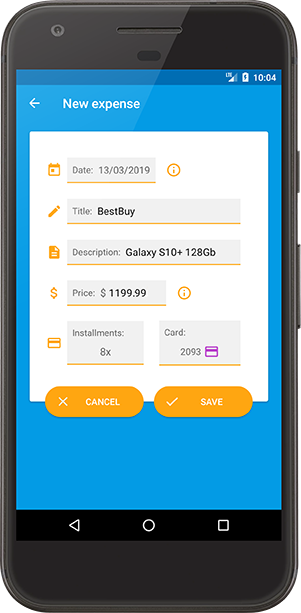
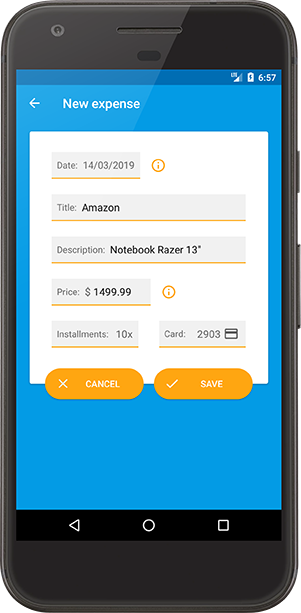
NewExpense Improvements

diff --git a/app/src/main/java/com/dev/marcellocamara/pgm/Adapter/ExpensesAdapter.java b/app/src/main/java/com/dev/marcellocamara/pgm/Adapter/ExpensesAdapter.java
@@ -1,18 +1,25 @@
 package com.dev.marcellocamara.pgm.Adapter;
 
+import android.content.Context;
 import android.support.annotation.NonNull;
 import android.support.v7.widget.RecyclerView;
 import android.view.LayoutInflater;
 import android.view.View;
 import android.view.ViewGroup;
+import android.widget.ImageView;
 import android.widget.TextView;
 
 import com.dev.marcellocamara.pgm.Contract.IAdapter;
+import com.dev.marcellocamara.pgm.Helper.CardHelper;
 import com.dev.marcellocamara.pgm.Helper.NumberHelper;
+import com.dev.marcellocamara.pgm.Helper.SpecificCard;
+import com.dev.marcellocamara.pgm.Model.CardModel;
 import com.dev.marcellocamara.pgm.Model.ExpenseModel;
 import com.dev.marcellocamara.pgm.R;
 
+import java.util.ArrayList;
 import java.util.List;
+import java.util.Objects;
 
 import butterknife.BindView;
 import butterknife.ButterKnife;
@@ -24,11 +31,15 @@ import butterknife.ButterKnife;
 
 public class ExpensesAdapter extends RecyclerView.Adapter<ExpensesAdapter.MyViewHolder> {
 
-    private List<ExpenseModel> list;
+    private List<ExpenseModel> expensesList;
+    private ArrayList<CardModel> cards;
     private IAdapter onRecyclerViewClick;
+    private Context context;
 
-    public ExpensesAdapter(List<ExpenseModel> list, IAdapter onRecyclerViewClick) {
-        this.list = list;
+    public ExpensesAdapter(Context context, List<ExpenseModel> expensesList, ArrayList<CardModel> cards, IAdapter onRecyclerViewClick) {
+        this.context = context;
+        this.expensesList = expensesList;
+        this.cards = cards;
         this.onRecyclerViewClick = onRecyclerViewClick;
     }
 
@@ -42,25 +53,31 @@ public class ExpensesAdapter extends RecyclerView.Adapter<ExpensesAdapter.MyView
     @Override
     public void onBindViewHolder(@NonNull MyViewHolder holder, int position) {
 
-        ExpenseModel expenseModel = list.get(position);
+        ExpenseModel expenseModel = expensesList.get(position);
+        CardModel card = SpecificCard.getCard(expenseModel.getCreditCard(), cards);
 
         double value = ( (expenseModel.getPrice()) / (Double.parseDouble(expenseModel.getInstallments())) );
 
         holder.textViewTitle.setText(expenseModel.getTitle());
         holder.textViewDescription.setText(expenseModel.getDescription());
         holder.textViewPrice.setText(NumberHelper.GetDecimal(value));
+        holder.textViewFinalDigits.setText(Objects.requireNonNull(card).getFinalDigits());
+        holder.imageViewCreditCard.setColorFilter(CardHelper.getColor(context, card.getCardColor()));
         holder.textViewInstallment.setText(expenseModel.getCurrentInstallment());
     }
 
     @Override
-    public int getItemCount() { return list.size(); }
+    public int getItemCount() { return expensesList.size(); }
 
     public class MyViewHolder extends RecyclerView.ViewHolder implements View.OnClickListener {
 
         @BindView(R.id.textViewTitle) protected TextView textViewTitle;
         @BindView(R.id.textViewDescription) protected TextView textViewDescription;
         @BindView(R.id.textViewPrice) protected TextView textViewPrice;
+        @BindView(R.id.textViewFinalDigits) protected TextView textViewFinalDigits;
         @BindView(R.id.textViewInstallment) protected TextView textViewInstallment;
+
+        @BindView(R.id.imageViewCreditCard) protected ImageView imageViewCreditCard;
 
         private IAdapter onRecyclerViewClick;
 

diff --git a/app/src/main/java/com/dev/marcellocamara/pgm/View/Activities/NewExpenseActivity.java b/app/src/main/java/com/dev/marcellocamara/pgm/View/Activities/NewExpenseActivity.java
@@ -53,6 +53,7 @@ public class NewExpenseActivity extends AppCompatActivity implements INewExpense
     @BindView(R.id.btnCancel) protected Button btnCancel;
     @BindView(R.id.btnSave) protected Button btnSave;
 
+    @BindView(R.id.layoutSelectInstallment) protected LinearLayout layoutSelectInstallment;
     @BindView(R.id.layoutSelectCard) protected LinearLayout layoutSelectCard;
 
     @BindView(R.id.imageViewCard) protected ImageView imageViewCard;
@@ -91,8 +92,7 @@ public class NewExpenseActivity extends AppCompatActivity implements INewExpense
         cardsList = getIntent().getParcelableArrayListExtra(parcelable);
 
         expensePresenter = new NewExpensePresenter(this);
-
-        charSequence = expensePresenter.OnRequestCardSequence(cardsList);
+        expensePresenter.OnRequestCardSequence(cardsList);
 
         textViewCard.setText(cardsList.get(0).getFinalDigits());
         imageViewCard.setColorFilter(CardHelper.getColor(this, cardsList.get(0).getCardColor()));
@@ -127,7 +127,7 @@ public class NewExpenseActivity extends AppCompatActivity implements INewExpense
         datePickerDialog.show();
     }
 
-    @OnClick(R.id.textViewInstallment)
+    @OnClick(R.id.layoutSelectInstallment)
     public void OnSelectInstallmentsClick(){
         AlertDialog.Builder builderInstallments = new AlertDialog.Builder(this);
         builderInstallments.setCancelable(false);
@@ -168,7 +168,8 @@ public class NewExpenseActivity extends AppCompatActivity implements INewExpense
                 editTextTitle.getText().toString().trim(),
                 editTextDescription.getText().toString().trim(),
                 editTextPrice.getText().toString().trim(),
-                installments
+                installments,
+                cardsList.get(card).getUniqueId()
         );
         UIUtil.hideKeyboard(this);
     }

diff --git a/app/src/main/java/com/dev/marcellocamara/pgm/Model/DatabaseModel.java b/app/src/main/java/com/dev/marcellocamara/pgm/Model/DatabaseModel.java
@@ -325,7 +325,7 @@ public class DatabaseModel implements ILogin.Model, IRegister.Model, IRecoverPas
     }
 
     @Override
-    public void DoAddExpense(String date, String title, String description, double price, int installments) {
+    public void DoAddExpense(String date, String title, String description, double price, int installments, String creditCard) {
 
         ExpenseModel expense = new ExpenseModel();
         expense.setPaymentDate(date);
@@ -333,6 +333,7 @@ public class DatabaseModel implements ILogin.Model, IRegister.Model, IRecoverPas
         expense.setDescription(description);
         expense.setPrice(price);
         expense.setInstallments(NumberHelper.GetMonth(installments));
+        expense.setCreditCard(creditCard);
 
         String dateSplit[] = date.split("/");
         String month = dateSplit[1];
@@ -343,7 +344,7 @@ public class DatabaseModel implements ILogin.Model, IRegister.Model, IRecoverPas
 
         final String userID = Objects.requireNonNull(getFirebaseAuthInstance().getCurrentUser()).getUid();
 
-        DoAddExpenseRecursion(1, installments, userID, UniqueID, month, year, expense );
+        DoAddExpenseRecursion(1, installments, userID, UniqueID, month, year, expense);
 
     }
 
@@ -366,6 +367,7 @@ public class DatabaseModel implements ILogin.Model, IRegister.Model, IRecoverPas
         expenseAux.setDescription(expense.getDescription());
         expenseAux.setPrice(expense.getPrice());
         expenseAux.setInstallments(expense.getInstallments());
+        expenseAux.setCreditCard(expense.getCreditCard());
 
         expenseAux.setCurrentInstallment( (NumberHelper.GetMonth(n)) + "/" + expense.getInstallments());
 

diff --git a/app/src/main/java/com/dev/marcellocamara/pgm/Model/ExpenseModel.java b/app/src/main/java/com/dev/marcellocamara/pgm/Model/ExpenseModel.java
@@ -12,14 +12,14 @@ import com.google.firebase.database.Exclude;
 
 public class ExpenseModel implements Parcelable {
 
-    private String creditCardId;
+    private String creditCard;
     private String paymentDate, title, description, currentInstallment, installments, uniqueId;
     private double price;
 
     public ExpenseModel(){}
 
     protected ExpenseModel(Parcel in) {
-        creditCardId = in.readString();
+        creditCard = in.readString();
         paymentDate = in.readString();
         title = in.readString();
         description = in.readString();
@@ -41,12 +41,12 @@ public class ExpenseModel implements Parcelable {
         }
     };
 
-    public String getCreditCardId() {
-        return creditCardId;
+    public String getCreditCard() {
+        return creditCard;
     }
 
-    public void setCreditCardId(String creditCardId) {
-        this.creditCardId = creditCardId;
+    public void setCreditCard(String creditCard) {
+        this.creditCard = creditCard;
     }
 
     public String getUniqueId() {
@@ -118,7 +118,7 @@ public class ExpenseModel implements Parcelable {
 
     @Override
     public void writeToParcel(Parcel dest, int flags) {
-        dest.writeString(creditCardId);
+        dest.writeString(creditCard);
         dest.writeString(paymentDate);
         dest.writeString(title);
         dest.writeString(description);

diff --git a/app/src/main/java/com/dev/marcellocamara/pgm/Presenter/NewExpensePresenter.java b/app/src/main/java/com/dev/marcellocamara/pgm/Presenter/NewExpensePresenter.java
@@ -24,7 +24,7 @@ public class NewExpensePresenter implements INewExpense.Presenter, ITaskListener
     }
 
     @Override
-    public void OnAddExpense(String date, String title, String description, String price, int installments) {
+    public void OnAddExpense(String date, String title, String description, String price, int installments, String creditCard) {
 
         if (title.isEmpty() || description.isEmpty() || price.isEmpty()){
 
@@ -44,18 +44,18 @@ public class NewExpensePresenter implements INewExpense.Presenter, ITaskListener
             view.OnMaxPrice();
         }else{
             view.ShowProgress();
-            model.DoAddExpense(date, title, description, Double.parseDouble(price), installments);
+            model.DoAddExpense(date, title, description, Double.parseDouble(price), installments, creditCard);
         }
 
     }
 
     @Override
-    public CharSequence[] OnRequestCardSequence(ArrayList<CardModel> cards) {
+    public void OnRequestCardSequence(ArrayList<CardModel> cards) {
         CharSequence charSequence[] = new String[cards.size()];
         for (int i = 0 ; i < cards.size() ; i++){
             charSequence[i] = cards.get(i).getCardTitle() + " - " + cards.get(i).getFinalDigits();
         }
-        return charSequence;
+        view.OnRequestCharSequenceResult(charSequence);
     }
 
 

diff --git a/app/src/main/java/com/dev/marcellocamara/pgm/Contract/INewExpense.java b/app/src/main/java/com/dev/marcellocamara/pgm/Contract/INewExpense.java
@@ -13,9 +13,9 @@ public interface INewExpense {
 
     interface Presenter {
 
-        void OnAddExpense(String date, String title, String description, String price, int installments);
+        void OnAddExpense(String date, String title, String description, String price, int installments, String creditCard);
 
-        CharSequence[] OnRequestCardSequence(ArrayList<CardModel> cards);
+        void OnRequestCardSequence(ArrayList<CardModel> cards);
 
         void OnCalculateDate(int day, int month, int year);
 
@@ -45,7 +45,7 @@ public interface INewExpense {
 
     interface Model {
 
-        void DoAddExpense(String date, String title, String description, double price, int installments);
+        void DoAddExpense(String date, String title, String description, double price, int installments, String creditCard);
 
     }
 

diff --git a/app/src/main/java/com/dev/marcellocamara/pgm/Helper/SpecificCard.java b/app/src/main/java/com/dev/marcellocamara/pgm/Helper/SpecificCard.java
@@ -1,0 +1,29 @@
+package com.dev.marcellocamara.pgm.Helper;
+
+import com.dev.marcellocamara.pgm.Model.CardModel;
+
+import java.util.ArrayList;
+
+/***
+    marcellocamara@id.uff.br
+            2019
+***/
+
+public class SpecificCard {
+
+    /**
+     * Searches for the unique key of the credit card in ArrayList of credit cards
+     * @param creditCard - credit card unique key string
+     * @param cards - ArrayList of credit cards CardModel
+     * @return credit card CardModel object or null if it does not find
+     */
+    public static CardModel getCard(String creditCard, ArrayList<CardModel> cards) {
+        for ( CardModel card : cards ) {
+            if (card.getUniqueId().equals(creditCard)){
+                return card;
+            }
+        }
+        return null;
+    }
+
+}

diff --git a/app/src/main/java/com/dev/marcellocamara/pgm/View/Fragments/HomeFragment.java b/app/src/main/java/com/dev/marcellocamara/pgm/View/Fragments/HomeFragment.java
@@ -139,7 +139,7 @@ public class HomeFragment extends Fragment implements IHome.View, IAdapter, OnMo
     public void OnRequestExpensesResult(List<ExpenseModel> expensesList, ArrayList<CardModel> cardsList) {
         this.expensesList = expensesList;
         this.cardsList = cardsList;
-        ExpensesAdapter adapter = new ExpensesAdapter(this.expensesList, this);
+        ExpensesAdapter adapter = new ExpensesAdapter(getContext(), this.expensesList, this.cardsList, this);
         recyclerView.setAdapter(adapter);
         homePresenter.OnTotalCalculate(this.expensesList, zero);
     }

diff --git a/app/src/main/java/com/dev/marcellocamara/pgm/Helper/CardHelper.java b/app/src/main/java/com/dev/marcellocamara/pgm/Helper/CardHelper.java
@@ -53,8 +53,8 @@ public class CardHelper {
         }
     }
 
-    public static int getColor(Context context, int flag) {
-        switch (flag){
+    public static int getColor(Context context, int color) {
+        switch (color){
             case 1 : {
                 return ContextCompat.getColor(context, R.color.cardYellow);
             }
